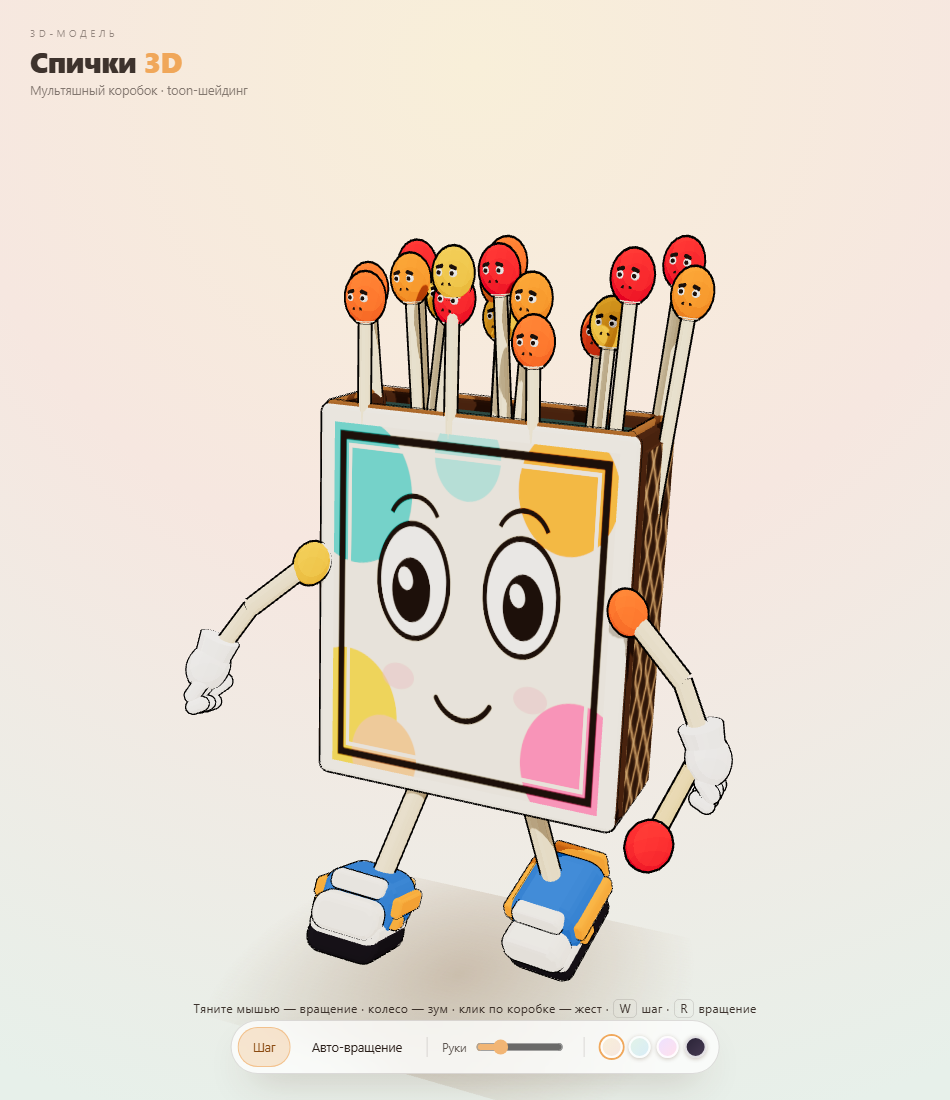
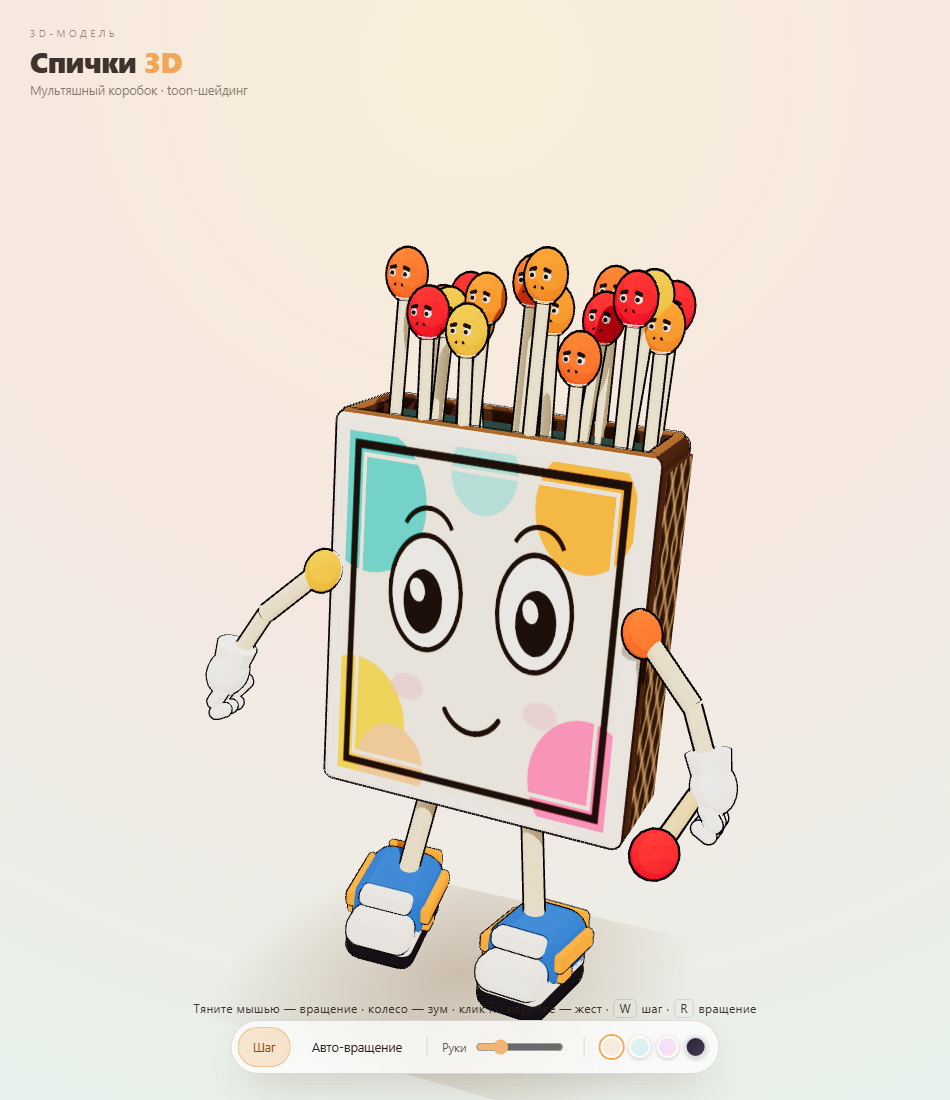
fix(matchbox): per-match tilt clamp so heads never cross the box walls

Changed region(s): [[0.1832, 0.2164, 0.7937, 0.9273]]

diff --git a/dist/matchbox.html b/dist/matchbox.html
@@ -395,7 +395,7 @@ for (let i = 0; i < 18; i++){
   g.position.set(x, botY + .06, z);
   g.rotation.z = (Math.random() - .5) * .10;
   g.rotation.x = (Math.random() - .5) * .08;
-  g.userData = {phase:Math.random() * 6.28, base:g.rotation.z};
+  g.userData = {phase:Math.random() * 6.28, base:g.rotation.z, x:x, z:z, h:h + .07};
   matchGroup.add(g);
   matches.push(g);
 }
@@ -734,10 +734,17 @@ function frame(){
   }
 
   // спички покачиваются
+  // наклон ограничен так, чтобы головки не выходили за стенки коробка
+  const halfW = (BW - WT * 2.4) / 2, halfD = (BD - WT * 2.4) / 2;
+  const amp = .03 + (walkOn ? Math.abs(s) * .05 : 0);
   for (let i = 0; i < matches.length; i++){
     const m = matches[i], u = m.userData;
-    m.rotation.z = u.base + Math.sin(time * 2.2 + u.phase) * (.03 + (walkOn ? Math.abs(s) * .05 : 0));
-    m.rotation.x = Math.sin(time * 1.7 + u.phase) * .03;
+    const limZ = Math.max(.012, Math.atan2(Math.max(.015, halfW - Math.abs(u.x) - .030), u.h));
+    const limX = Math.max(.012, Math.atan2(Math.max(.015, halfD - Math.abs(u.z) - .030), u.h));
+    const tz = Math.sin(time * 2.2 + u.phase) * amp;
+    const tx = Math.sin(time * 1.7 + u.phase) * .03;
+    m.rotation.z = Math.max(-limZ, Math.min(limZ, u.base + tz));
+    m.rotation.x = Math.max(-limX, Math.min(limX, tx));
   }
 
   renderer.render(scene, camera);

diff --git a/src/matchbox/index.html b/src/matchbox/index.html
@@ -388,7 +388,7 @@ for (let i = 0; i < 18; i++){
   g.position.set(x, botY + .06, z);
   g.rotation.z = (Math.random() - .5) * .10;
   g.rotation.x = (Math.random() - .5) * .08;
-  g.userData = {phase:Math.random() * 6.28, base:g.rotation.z};
+  g.userData = {phase:Math.random() * 6.28, base:g.rotation.z, x:x, z:z, h:h + .07};
   matchGroup.add(g);
   matches.push(g);
 }
@@ -727,10 +727,17 @@ function frame(){
   }
 
   // спички покачиваются
+  // наклон ограничен так, чтобы головки не выходили за стенки коробка
+  const halfW = (BW - WT * 2.4) / 2, halfD = (BD - WT * 2.4) / 2;
+  const amp = .03 + (walkOn ? Math.abs(s) * .05 : 0);
   for (let i = 0; i < matches.length; i++){
     const m = matches[i], u = m.userData;
-    m.rotation.z = u.base + Math.sin(time * 2.2 + u.phase) * (.03 + (walkOn ? Math.abs(s) * .05 : 0));
-    m.rotation.x = Math.sin(time * 1.7 + u.phase) * .03;
+    const limZ = Math.max(.012, Math.atan2(Math.max(.015, halfW - Math.abs(u.x) - .030), u.h));
+    const limX = Math.max(.012, Math.atan2(Math.max(.015, halfD - Math.abs(u.z) - .030), u.h));
+    const tz = Math.sin(time * 2.2 + u.phase) * amp;
+    const tx = Math.sin(time * 1.7 + u.phase) * .03;
+    m.rotation.z = Math.max(-limZ, Math.min(limZ, u.base + tz));
+    m.rotation.x = Math.max(-limX, Math.min(limX, tx));
   }
 
   renderer.render(scene, camera);
